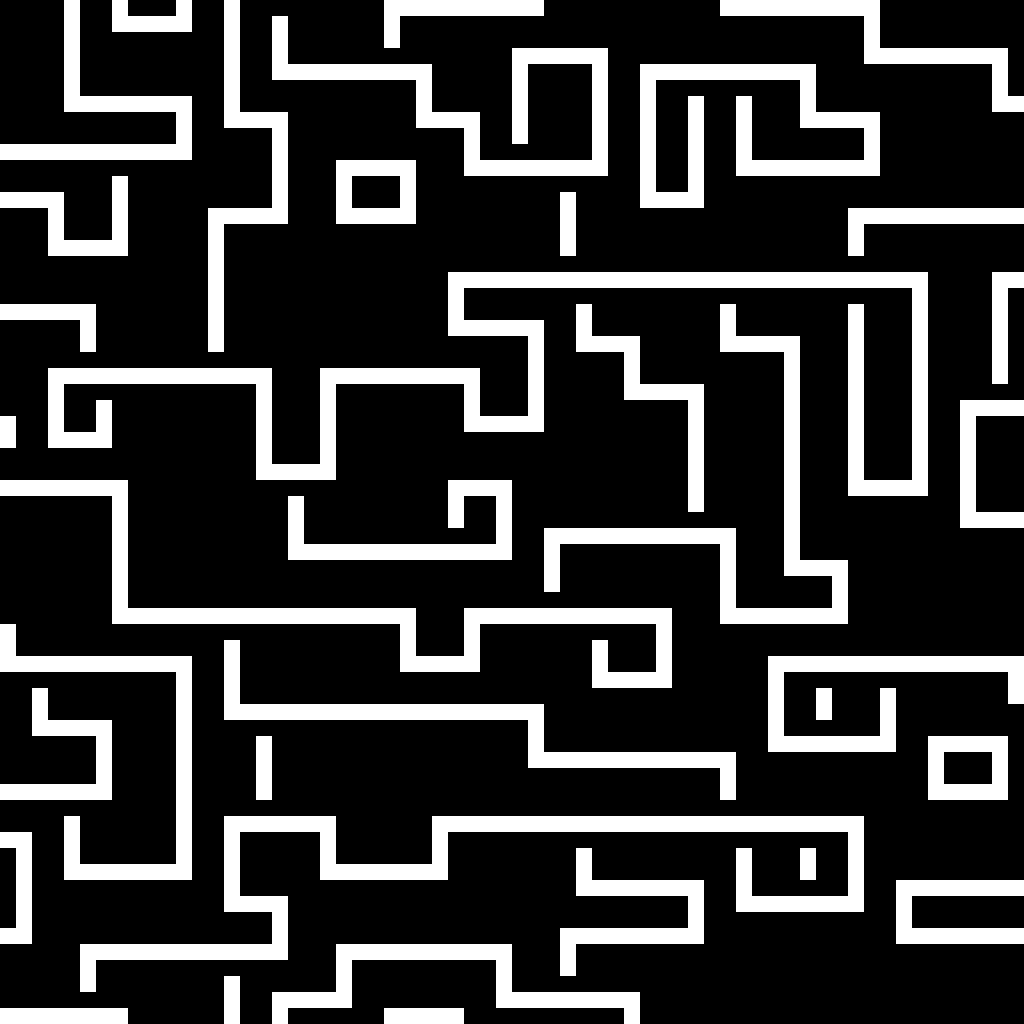
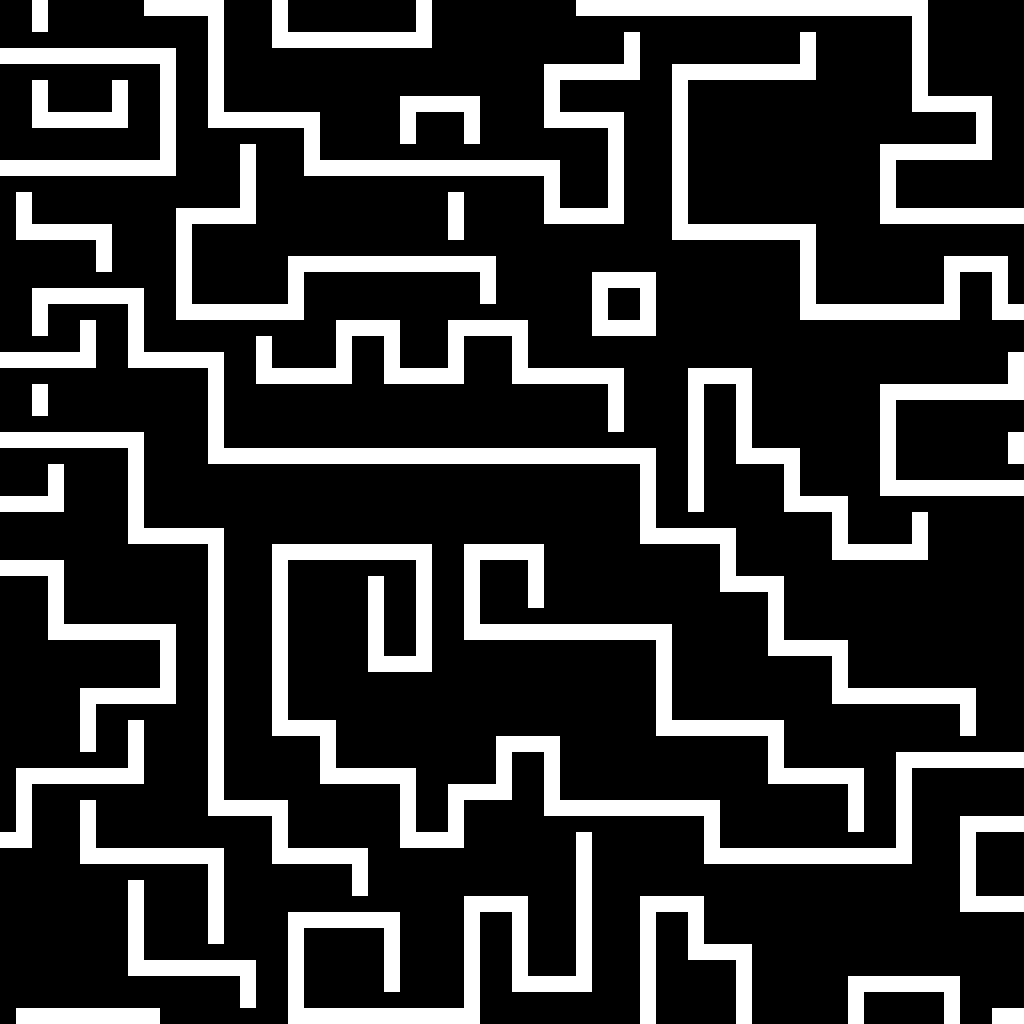
more verbose stuff

diff --git a/wave/Wave.h b/wave/Wave.h
@@ -235,7 +235,7 @@ struct WFC {
 				int len = 0; 
 				for (int i = 0; i < P; i++) len += possible[r][c][i];
 				if (len <= 0) {
-					std::cout << "ERROR)(len)!!! " << r << " " << c << "\n";
+					if (verbose) std::cout << "ERROR(len)!!! " << r << " " << c << "\n";
 					return false;
 				}
 				if (len <= 1) { // forced
@@ -249,7 +249,7 @@ struct WFC {
 					if (possible[r][c][i]) denom += counts[i].second;
 				}
 				if (denom <= 0) {
-					std::cout << "ERROR(denom)!!! " << r << " " << c << "\n";
+					if (verbose) std::cout << "ERROR(denom)!!! " << r << " " << c << "\n";
 					return false; // contradiction
 				}
 				double trueDenom = 1.0 / denom;
@@ -269,7 +269,7 @@ struct WFC {
 		}
 		// end entropy pick
 		if (xr < 0 || xc < 0) {
-			std::cout << "ERROR(xr, xc)!!! " << xr << " " << xc << "\n";
+			if (verbose) std::cout << "ERROR(xr, xc)!!! " << xr << " " << xc << "\n";
 			return false; // contradiction
 		}
 		// populate the chosen pattern index and counts
@@ -280,7 +280,7 @@ struct WFC {
 			}
 		}
 		if (theCounts.size() <= 0) {
-			std::cout << "ERROR (counts)!!! " << xr << " " << xc << "\n";
+			if (verbose) std::cout << "ERROR (counts)!!! " << xr << " " << xc << "\n";
 			return false; // contradiction
 		}
 		int index = randomIndex(theCounts);
@@ -328,7 +328,7 @@ struct WFC {
 					bool hasP = false;
 					for (auto x : possible[pr][pc]) hasP |= x;
 					if (!hasP) {
-						cout << "ERROR(propagation)" << pr << " " << pc << "\n";
+						if (verbose) cout << "ERROR(propagation)" << pr << " " << pc << "\n";
 						return false;
 					}
 				}
